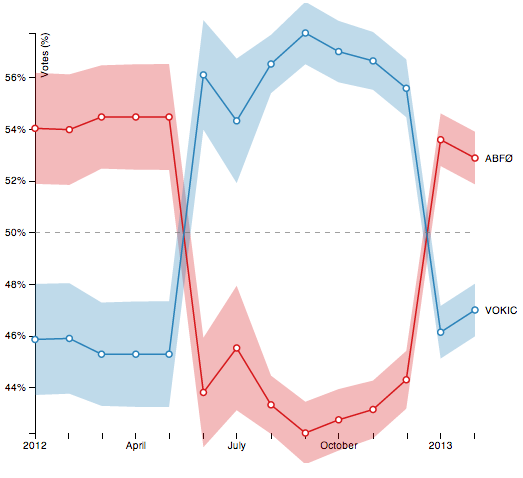
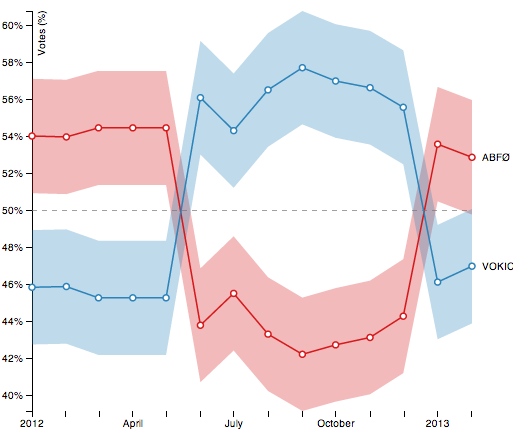
Implemented computation of confidence interval

diff --git a/_functions/standardError.js b/_functions/standardError.js
@@ -1,0 +1,10 @@
+// Returns standard error for percentage share of n respondents.
+// se(0.5, 1000) -> 0,0158 = 1.58%
+function se(p, n) {
+    p = parseFloat(p);
+    return Math.sqrt(p*(1-p)/n);
+}
+
+// Returns se with 95% confidence instead of 68%
+// se95(0.5, 1000) -> 0.03099 = 3.099%
+function se95(p, n) { return se(p, n) * 1.96; }
